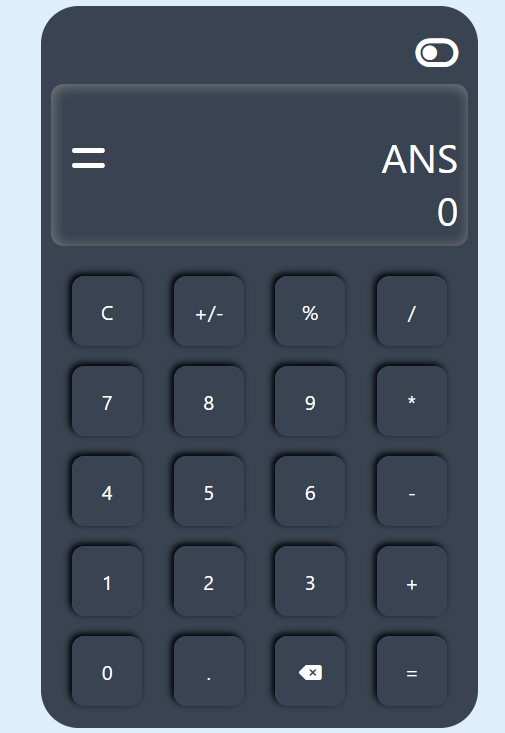
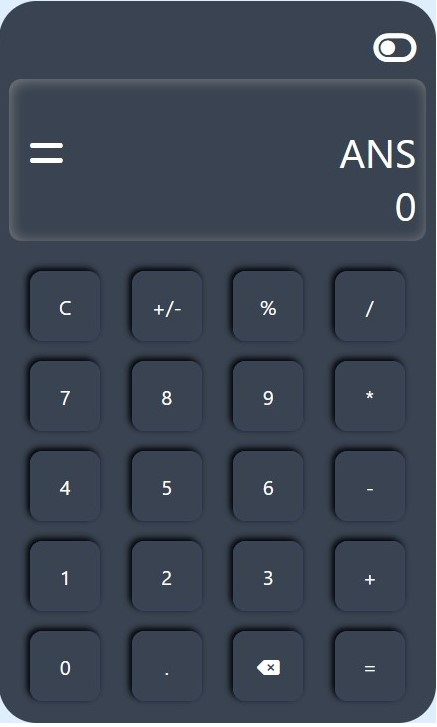
Changed images for readme.md file

diff --git a/README.md b/README.md
@@ -12,5 +12,4 @@ Runs the app in the development mode.\
 Open [http://localhost:3000](http://localhost:3000) to view it in your browser.
 
 ## Calculator Web App
-![](images/Dark_theme_calculator.jpg)
-![](images/light_theme_calculator.jpg)
+![](images/Dark_theme_calculator.jpg)![](images/light_theme_calculator.jpg)
